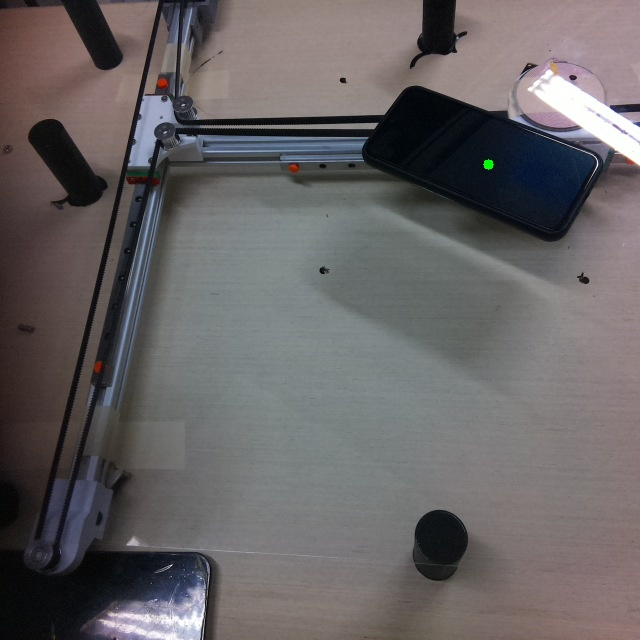
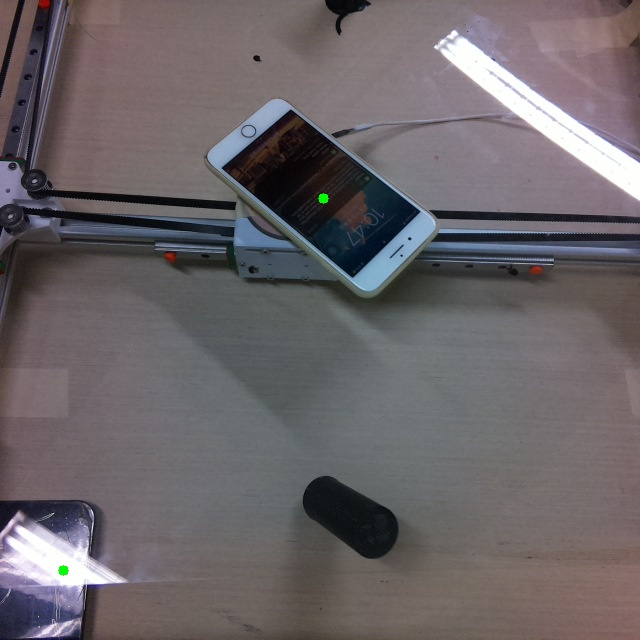
temp

diff --git a/remap.py b/remap.py
@@ -6,10 +6,10 @@ def remap_coor(x,y):
     # Define the four corners in the image
     # from the image perspective
     image_points = np.array([
-        [532.,  71.], # top right (origin)
-        [538., 270.], # bottom right
-        [283., 258.], # bottom left
-        [305.,  65.], # top left
+        [475.,  31.], # top right (origin)
+        [483., 234.], # bottom right
+        [230., 223.], # bottom left
+        [245.,  21.], # top left
     ], dtype=np.float32)
 
     # Define the real-world coordinates of the four corners

diff --git a/app.py b/app.py
@@ -17,8 +17,8 @@ ins = ObjectDetection()
 idx = 0
 
 ser = serial.Serial(
-    port='/dev/ttyUSB0',  # Replace with the correct USB port for the Arduino
-    baudrate=9600,
+    port='/dev/ttyACM0',  # Replace with the correct USB port for the Arduino
+    baudrate=115200,
     timeout=1  # Timeout for read operations, in seconds
 )
 
